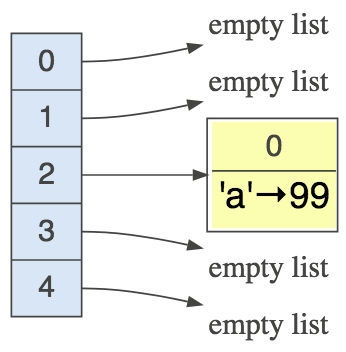
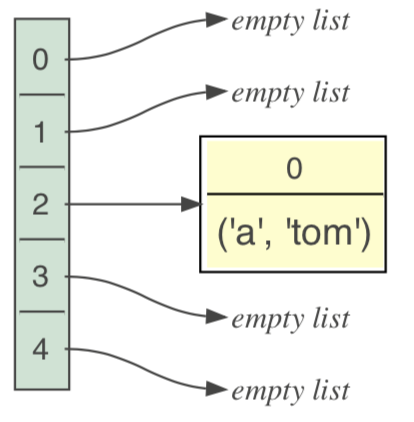
update notes

diff --git a/hw/search.md b/hw/search.md
@@ -4,7 +4,7 @@ The goal of this project is to learn how hashtables work and to *feel* just how 
 
 ## Discussion
 
-A **search engine** accepts one or more **terms** and searches a corpus for files matching all of those terms.  A **corpus** is just a directory and possibly subdirectories full of text files. If you go to the [American National corpus](http://www.anc.org/data/oanc/contents/), you'll see lots of fun text data. I have extracted articles from [Slate](https://github.com/parrt/msds692/blob/master/data/slate.7z) magazine and also from [Berlitz travelogues](https://github.com/parrt/msds692/blob/master/data/berlitz1.7z).  These are your data sets.  Berlitz is smaller and so I use that in some of my [unit tests](https://github.com/parrt/msds692/tree/master/hw/code/search/test_search.py).  Here is a fragment of a sample search results page as displayed in Chrome (activated from Python); clicking on a link brings up the actual file.
+A **search engine** accepts one or more **terms** and searches a corpus for files matching all of those terms.  A **corpus** is just a directory and possibly subdirectories full of text files. If you go to the [American National corpus](http://www.anc.org/data/oanc/contents/), you'll see lots of fun text data. I have extracted articles from [Slate](https://github.com/parrt/msds692/blob/master/data/slate.7z) magazine and also from [Berlitz travelogues](https://github.com/parrt/msds692/blob/master/data/berlitz1.7z).  These are your data sets.  Berlitz is smaller and so I use that in some of my [unit tests in the starterkit](https://github.com/parrt/msds692/tree/master/hw/code/search).  Here is a fragment of a sample search results page as displayed in Chrome (activated from Python); clicking on a link brings up the actual file.
 
 | HTML output        | File Content |
 | ---------- | -----
@@ -16,7 +16,7 @@ In repo `search-`*userid*, you're going to implement 3 different search mechanis
 2. Hashtable via built in Python `dict` objects; file [index_search.py](https://github.com/parrt/msds692/tree/master/hw/code/search/index_search.py)
 3. Hashtable that you implement yourself; file [myhtable_search.py](https://github.com/parrt/msds692/tree/master/hw/code/search/myhtable_search.py)
 
-All three mechanism should give exactly the same results, but you will notice that the linear search is extremely slow. On my really fast machine with an SSD, it takes about five seconds to search through the Slate data. It has to open and search about 4500 files. With either of the hash tables, it's a matter of milliseconds.
+All three mechanism should give exactly the same results, but you will notice that the linear search is extremely slow. On my really fast machine with an SSD, it takes about five seconds to search through the Slate data. It has to open and search about 4500 files. With either of the hash tables, it's a matter of milliseconds. It's slow the first time you load all of the files regardless of the technique, but the indexed search is walking all of the files the first time only.
 
 File [search.py](https://github.com/parrt/msds692/tree/master/hw/code/search/search.py) is the main program, which you execute like this from the `search-`*userid* directory:
 
@@ -42,7 +42,7 @@ After you enter the search terms and hit return, the Python program pops up your
 
 ### Linear search
 
-Your first task is to perform a brain-dead linear search, which looks at each file in turn to see if it contains all of the search terms. If it does, that filename is included in the list (not `set`) of matching documents. The time complexity is *O(n)* for *n* total words in all files.
+Your first task is to perform a brain-dead linear search, which looks at each file in turn to see if it contains all of the search terms. If it does, that filename is included in the list (not `set`) of matching documents. (Function `results()` expects a list, not a set.) The time complexity is *O(kn)* for an average of *k* words per file and *n* files; still, it is about *O(n)*: the order of the number of files.
 
 Given a list of fully-qualified filenames for files containing the search terms, the main program in [search.py](https://github.com/parrt/msds692/tree/master/hw/code/search/search.py) uses function `results()` to get a string containing HTML, which `search.py` writes to file `/tmp/results.html`. It then requests, via `webbrowser.open_new_tab()`, that your default browser open that page.
 
@@ -132,9 +132,9 @@ We know that a linear search of a list of associations is slow because it requir
 
 Imagine our goal is to find a particular person Eric Erickson in the United States. Where would you look first? Southern California or Minnesota? It turns out that people that immigrated to the United States tended to cluster in regions where they had family or friends from the old country. There were a lot of Scandinavians that moved to Minnesota and because of its proximity to Mexico, there are many people with Spanish last names in Southern California. That gives us a clue about how we might speed up the search.  Something about the key gives us a clue about how to restrict the region(s) where we need to look. Imagine that a person's name uniquely told you in which state they live. That would mean searching only roughly 300M / 50 people instead of all 300M given no knowledge about the keys.
 
-A **hashtable** is a dictionary implementation that relies on this strategy to dramatically speed up key lookups by constraining the size of the search region.  A hashtable is a list of buckets and a bucket is a list of associations mapping and arbitrary key to arbitrary value. We compute a function, a **hash function**, on the key that indicates which bucket (number) potentially contains the search key. With a uniform distribution, we would expect roughly *N*/*B* associations in each bucket for *B* buckets and *N* total elements in the dictionary.  A complexity of *N*/*B* is much better than *N* and, with sufficiently large *B*, we would say that *N*/*B* approaches 1, giving complexity *O(1)* versus *O(n)*.
+A **hashtable** is a dictionary implementation that relies on this strategy to dramatically speed up key lookups by constraining the size of the search region.  A hashtable is a list of buckets and a bucket is a list of associations mapping an arbitrary key to arbitrary value.  The only real restriction is that the key must be immutable such as a string, a number, tuple, etc... We compute a function, a **hash function**, on the key that indicates which bucket (number) potentially contains the search key. With a uniform distribution, we would expect roughly *N*/*B* associations in each bucket for *B* buckets and *N* total elements in the dictionary.  A complexity of *N*/*B* is much better than *N* and, with sufficiently large *B*, we would say that *N*/*B* approaches 1, giving complexity *O(1)* versus *O(n)*.
 
-Because we are not studying the object-oriented aspects of Python, we are going to represent a hashtable as a list of lists (list of buckets):
+Because we are not currently studying the object-oriented aspects of Python, we are going to represent a hashtable as a list of lists (list of buckets):
 
 ```python
 def htable(nbuckets):
@@ -149,11 +149,12 @@ Let's look at an example that adds something to our hashtable. Imagine that our 
 
 ```python
 key = 'a'
-value = 99
-def hashcode(o): return ord(o) # assume keys are single-element strings
-print "hashcode =", hashcode(key)
+value = 'tom'
+def hashcode(o):
+	return ord(o) # assume keys are single-char strings
+print("hashcode =", hashcode(key))
 bucket_index = hashcode(key) % len(table)
-print "bucket_index =", bucket_index
+print("bucket_index =", bucket_index)
 ```
 
 Gives:
@@ -172,7 +173,7 @@ bucket.append( (key,value) ) # add association to the bucket
 
 The data structure now looks like this:
 
-<img src=figures/hashtable3.png width=150>
+<img src=figures/hashtable3.png width=180>
 
 Different hash codes can hash to the same bucket because of the modulo operation that constrains the hash code value. For example, `'f'` will also have to the same bucket despite having a different hash code:
 
@@ -188,7 +189,14 @@ bucket.append( (key,value) ) # add association to the bucket
 
 Gives:
 
-<img src=figures/hashtable4.png width=200>
+<img src=figures/hashtable4.png width=250>
+
+The straight in-line code to add those two elements would look likeL
+ 
+```pytnon
+table[ord('a')%5].append( ('a','tom') )  # 'a'==97
+table[ord('f')%5].append( ('f','mary') ) # 'f'==102
+```
  
 Ok, back to this specific project. The version of the search engine you create for this section should look and perform just like the version using `dict`. The difference is **you cannot use the built-in dictionary operations** like `index[k]` for `dict` `index` and key `k`. You will build your own hashtable and call your own `get` and `put` functions explicitly to manipulate the index.
 
@@ -223,7 +231,7 @@ def hashcode(o):
     """
 ```
 
-Notice that we are only computing hash codes for strings and integers. The hash code for a string could be just the sum of all of all the character ASCII codes, via `ord()`, but that would mean a lot of collisions like `pots` and `stop`.  A collision is when different keys hash to the same bucket. Ideally we would have one association per bucket. The "distribution" of elements to buckets is a function of how many buckets we have and how good our hash function is. The multiplication by prime number 31 starts shifting the bits around and gets a bit of "randomness" into our key computation.
+*Notice that we are only computing hash codes for strings and integers.* The hash code for a string could be just the sum of all of all the character ASCII codes, via `ord()`, but that would mean a lot of collisions like `pots` and `stop`.  A collision is when different keys hash to the same bucket. Ideally we would have one association per bucket. The "distribution" of elements to buckets is a function of how many buckets we have and how good our hash function is. The multiplication by prime number 31 starts shifting the bits around and gets a bit of "randomness" into our key computation.
 
 The hash code is not directly used to get the bucket index because the hash code will typically be many times larger than the number of buckets.  The index of a bucket is the hash code modulo the number of buckets:
 
@@ -247,17 +255,17 @@ It computes the bucket where `key` lives and then linearly searches that (hopefu
 
 <img src="figures/redbang.png" width=30 align="left"> Building a search index on top of your own implementation of a hash table can be quite confusing. This is particularly so because we are associating a word (string) with a **mutable** set of document IDs.
 
-The confusing part is how you update the search index entries when it is your own hash table implementation. If you look at the example from above, where `'a'` maps to `99`, we can see that changing 99 to 42 requires that we replace that mapping.  The reason is `99` is immutable: it cannot be changed. So, we replace the entire tuple `('a',99)` with `('a',42)`. 
+The confusing part is how you update the search index entries when it is your own hash table implementation. If you look at the example from above, where `'a'` maps to `tom`, we can see that changing `tom` to `jane` requires that we replace that mapping. Tuples are immutable and so is `99`. So, we replace the entire tuple `('a',tom)` with `('a',jane)`. 
 
-Now look at the example where we map `'ronald'` to `{9,3}`.  That set is mutable so if you want to update the set, you don't have to replace the `('ronald', {9,3})` association in the hash table. You just have to update the set that already exists.  You need to initialize the search index with empty sets the first time but after that the hash table "get" will retrieve the existing set and you can simply call `add()` to add a document ID to that set.
+Now look at the example where we map `'ronald'` to set `{9,3}`.  That set is **mutable** so, if you want to update the set, you don't have to replace the `('ronald', {9,3})` association in the hash table. Just update the set that already exists.  You would need to initialize the search index with empty sets as part of your search index initialization but after that the hash table "get" will retrieve the existing set. You can then simply call set `add()` to add a document ID to that set.
 
 ## Getting started
 
 Please go to the [Search starterkit](https://github.com/parrt/msds692/tree/master/hw/code/search) and grab all the python files.  Store these in your repo `search-`*userid*, wherever you store that directory.
 
-Store the [Slate](https://github.com/parrt/msds692/blob/master/data/slate.7z) and [Berlitz](https://github.com/parrt/msds692/blob/master/data/berlitz1.7z) data sets outside of your repo so that you are not tempted to add that data to the repository. Perhaps you can make a general data directory for use in lots of classes such as `~/data` or just for this class `~/msds692/data`.
+Store the [Slate](https://github.com/parrt/msds692/blob/master/data/slate.7z) and [Berlitz](https://github.com/parrt/msds692/blob/master/data/berlitz1.7z) data sets outside of your repo so that you are not tempted to add that data to the repository. Perhaps you can make a general data directory for use in lots of classes such as `~/data` or just for this class `~/msds692/data`. You will need the `7z` compression utility to uncompress those things.
 
-I recommend that you start by getting the simple linear search to work, which involves computing HTML and all of the basic machinery for extracting words from file content. So start by fleshing out `words.py` and `linear_search.py`.  You can use the unit tests in `test_search.py`, although the tests will fail for the indexed-based searches until you get those implemented. 
+I recommend that you start by getting the simple linear search to work, which involves computing HTML and all of the basic machinery for extracting words from file content. So start by fleshing out `words.py` and `linear_search.py`.  You can use the unit tests in the test python files, although the tests will fail for the indexed-based searches until you get those implemented. 
 
 ## Deliverables
 
